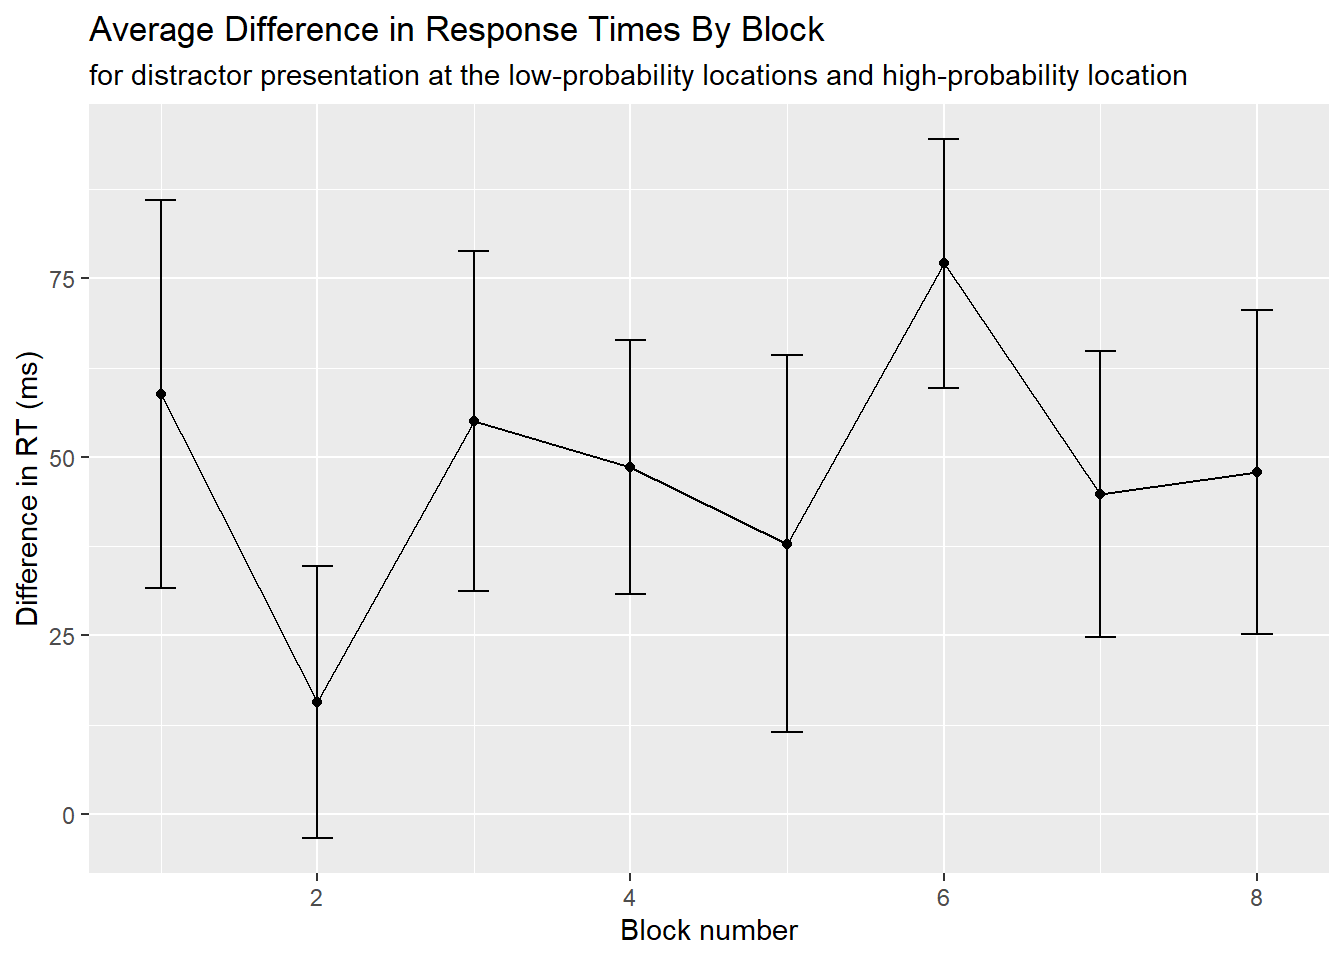
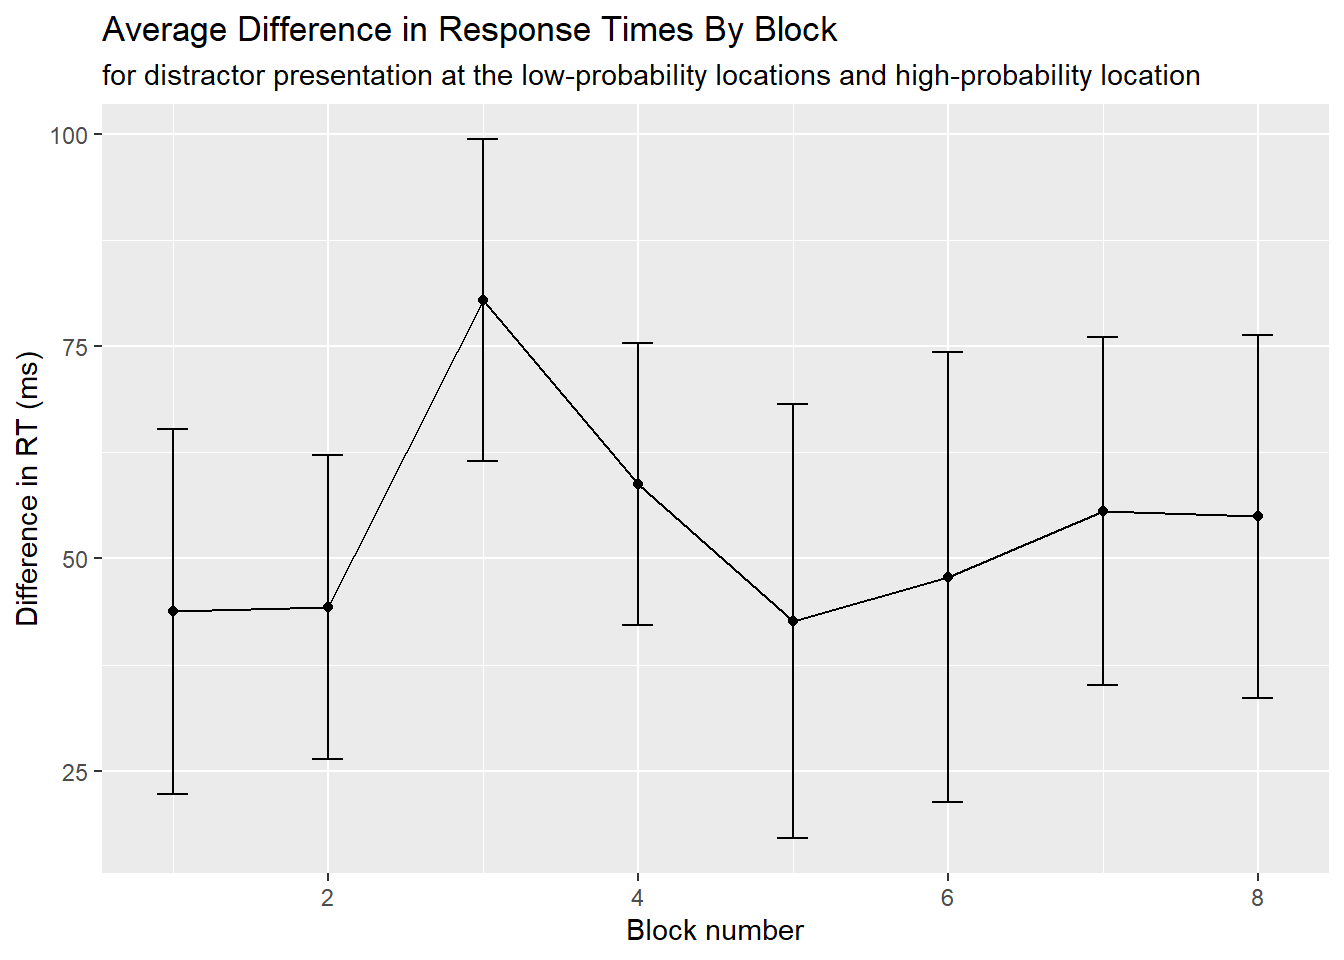
Corrected issues in portfolio 1

diff --git a/docs/p01.html b/docs/p01.html
@@ -315,9 +315,6 @@ regularity introduced.</p>
 <pre class="r"><code>pilot &lt;- read_csv(&quot;p01/p01/data/pilot_final.csv&quot;, show_col_types = FALSE)</code></pre>
 <pre><code>## New names:
 ## • `` -&gt; `...1`</code></pre>
-<div id="distractor-location-effects-on-response-times"
-class="section level3">
-<h3>Distractor Location Effects on Response Times</h3>
 <p>Changed the value of column relative_hp_dist and changed RT column to
 milliseconds. Tried mutate and transform functions to no avail.</p>
 <pre class="r"><code>pilot$relative_hp_dist[pilot$relative_hp_dist == 10] &lt;- &quot;no_dist&quot;
@@ -327,12 +324,40 @@ pilot$relative_hp_dist[pilot$relative_hp_dist == 2] &lt;- &quot;dist_2&quot;
 pilot$relative_hp_dist[pilot$relative_hp_dist == 3] &lt;- &quot;dist_3&quot;
 
 pilot$RT &lt;- pilot$RT *1000</code></pre>
+<pre class="r"><code>block_num &lt;- rep(c(1,2,3,4,5,6,7,8), each=60, times=21)
+pilot &lt;- cbind(pilot, block_num)</code></pre>
+<div id="trim-the-data" class="section level3">
+<h3>Trim the Data</h3>
+<p>Define trimming criteria according to Van Selst and Jolicoeur
+1994</p>
+<pre class="r"><code>xsize &lt;- c(4, 5, 6, 7, 8, 9, 10, 11, 12, 13, 14, 15, 20, 
+             25, 30, 35, 50, 100)
+stds &lt;- c(1.458, 1.68, 1.841, 1.961, 2.05, 2.12, 2.173, 
+            2.22, 2.246, 2.274, 2.31, 2.326, 2.391, 2.41, 2.4305, 
+            2.45, 2.48, 2.5)</code></pre>
+<p>Trim the data and compute the percent trimmed</p>
+<pre class="r"><code>trimmed &lt;- pilot[pilot$acc==100, ] %&gt;% group_by(ID, relative_hp_dist) %&gt;%
+           mutate(sdc = ifelse(length(RT)&gt;=100,2.5,approx(xsize,stds,xout=length(RT))$y), avg = mean(RT), stdev = sd(RT)) %&gt;%
+           filter(RT &lt;= sdc*stdev+avg &amp; RT &gt;=avg-(sdc*stdev) &amp; RT &gt;=.200) %&gt;%
+           select(ID, relative_hp_dist, RT, block_num) %&gt;%
+           as.data.frame()
+
+
+statPrep &lt;- trimmed %&gt;% group_by(ID, relative_hp_dist) %&gt;% summarise(measurement=mean(RT)) %&gt;% as.data.frame()</code></pre>
+<pre><code>## `summarise()` has grouped output by &#39;ID&#39;. You can override using the `.groups`
+## argument.</code></pre>
+<pre class="r"><code>100-(nrow(trimmed)/nrow(pilot[pilot$acc==100, ]))*100</code></pre>
+<pre><code>## [1] 2.509732</code></pre>
+<p>2.51% of trials were trimmed.</p>
+</div>
+<div id="distractor-location-effects-on-response-times"
+class="section level3">
+<h3>Distractor Location Effects on Response Times</h3>
 <p>Create new data frame with the mean response times grouped by
 distractor location relative to the high-probability location and add
 columns for standard error.</p>
-<pre class="r"><code>dist_means &lt;- pilot %&gt;%
-  group_by(relative_hp_dist) %&gt;%
-  filter(acc==100) %&gt;%
+<pre class="r"><code>sum_stats &lt;- trimmed%&gt;%
+  group_by(relative_hp_dist)%&gt;%
   summarize(mean_rts=mean(RT),
             sd_rt=sd(RT),
             n_rt=21,
@@ -340,33 +365,32 @@ columns for standard error.</p>
             upper_limit=mean_rts+se,
             lower_limit=mean_rts-se
   )
-dist_means</code></pre>
+sum_stats</code></pre>
 <pre><code>## # A tibble: 5 × 7
 ##   relative_hp_dist mean_rts sd_rt  n_rt    se upper_limit lower_limit
 ##   &lt;chr&gt;               &lt;dbl&gt; &lt;dbl&gt; &lt;dbl&gt; &lt;dbl&gt;       &lt;dbl&gt;       &lt;dbl&gt;
-## 1 dist_0               881.  292.    21  63.8        944.        817.
-## 2 dist_1               932.  286.    21  62.5        995.        870.
-## 3 dist_2               940.  277.    21  60.5       1001.        880.
-## 4 dist_3               920.  259.    21  56.5        977.        864.
-## 5 no_dist              800.  245.    21  53.4        853.        746.</code></pre>
+## 1 dist_0               860.  266.    21  58.1        918.        802.
+## 2 dist_1               923.  277.    21  60.4        983.        862.
+## 3 dist_2               926.  262.    21  57.1        984.        869.
+## 4 dist_3               906.  239.    21  52.1        958.        854.
+## 5 no_dist              781.  215.    21  46.9        828.        734.</code></pre>
 <p>This figure displays the mean response times depending on the
 location of the distractor relative to the high probability location. I
 chose those particular colors based on Wake Forest’s color scheme.</p>
-<pre class="r"><code>ggplot(data = dist_means, aes(x = relative_hp_dist, y = mean_rts)) +
+<pre class="r"><code>ggplot(data = sum_stats, aes(x = relative_hp_dist, y = mean_rts)) +
   geom_bar(stat = &quot;identity&quot;, fill=&quot;#9E7E38&quot;, color=&#39;#000000&#39;) +
   geom_errorbar(aes(ymin=lower_limit, ymax=upper_limit), width=0.2)+
   coord_cartesian(ylim = c(700,1050))+
   theme_classic()+
   labs(x = &quot;Distractor Location&quot;, y = &quot;Response Time (ms)&quot;)+
   labs(title = &quot;Distractor Location Effect on RT&quot;)+
-  labs(caption = &quot;An ANOVA test shows a difference in RT depending on distractor location, F(4,80)=32.621, p&lt;.001.&quot;)</code></pre>
+  labs(caption = &quot;An ANOVA test shows a difference in RT depending on distractor location, F(4,80)=33.3, p&lt;.001.&quot;)</code></pre>
 <p><img src="p01_files/figure-html/-%20graph%201%20-%20distractor%20location%20effect%20on%20rt-1.png" width="672" /></p>
 <p>Create a new data frame with the average RT for each relative
 distractor location per participant, so we can do a repeated measures
 ANOVA.</p>
-<pre class="r"><code>space &lt;- pilot %&gt;%
+<pre class="r"><code>space &lt;- trimmed %&gt;%
   group_by(ID, relative_hp_dist) %&gt;%
-  filter(acc==100) %&gt;%
   summarize(rts = mean(RT),
             )</code></pre>
 <pre><code>## `summarise()` has grouped output by &#39;ID&#39;. You can override using the `.groups`
@@ -380,12 +404,12 @@ ANOVA.</p>
 ##  2    11 dist_1           1324.
 ##  3    11 dist_2           1336.
 ##  4    11 dist_3           1230.
-##  5    11 no_dist          1098.
-##  6    12 dist_0            816.
-##  7    12 dist_1            879.
-##  8    12 dist_2            865.
+##  5    11 no_dist          1081.
+##  6    12 dist_0            799.
+##  7    12 dist_1            841.
+##  8    12 dist_2            849.
 ##  9    12 dist_3            882.
-## 10    12 no_dist           750.
+## 10    12 no_dist           732.
 ## # … with 95 more rows</code></pre>
 <p>Need to reformat the above df to have a column for each
 relative_hp_dist/ID.</p>
@@ -395,14 +419,17 @@ space_anova &lt;- dcast(space_anova,ID~relative_hp_dist,value.var=&#39;rts&#39;)
 space %&gt;%
   group_by(relative_hp_dist) %&gt;%
   identify_outliers(rts)</code></pre>
-<pre><code>## # A tibble: 5 × 5
+<pre><code>## # A tibble: 8 × 5
 ##   relative_hp_dist    ID   rts is.outlier is.extreme
 ##   &lt;chr&gt;            &lt;dbl&gt; &lt;dbl&gt; &lt;lgl&gt;      &lt;lgl&gt;     
 ## 1 dist_0              11 1277. TRUE       FALSE     
 ## 2 dist_1              11 1324. TRUE       FALSE     
-## 3 no_dist             11 1098. TRUE       TRUE      
-## 4 no_dist             20  998. TRUE       FALSE     
-## 5 no_dist             28  972. TRUE       FALSE</code></pre>
+## 3 dist_1              28 1258. TRUE       FALSE     
+## 4 dist_3              11 1230. TRUE       FALSE     
+## 5 no_dist             11 1081. TRUE       TRUE      
+## 6 no_dist             20  986. TRUE       FALSE     
+## 7 no_dist             22  904. TRUE       FALSE     
+## 8 no_dist             28  953. TRUE       FALSE</code></pre>
 <pre class="r"><code>#testing the normality assumption -- data is not normally distributed because some conditions have a p-value less than .05
 space %&gt;%
   group_by(relative_hp_dist) %&gt;%
@@ -410,11 +437,11 @@ space %&gt;%
 <pre><code>## # A tibble: 5 × 4
 ##   relative_hp_dist variable statistic      p
 ##   &lt;chr&gt;            &lt;chr&gt;        &lt;dbl&gt;  &lt;dbl&gt;
-## 1 dist_0           rts          0.917 0.0762
-## 2 dist_1           rts          0.887 0.0200
-## 3 dist_2           rts          0.902 0.0380
-## 4 dist_3           rts          0.952 0.377 
-## 5 no_dist          rts          0.898 0.0320</code></pre>
+## 1 dist_0           rts          0.901 0.0362
+## 2 dist_1           rts          0.876 0.0125
+## 3 dist_2           rts          0.910 0.0557
+## 4 dist_3           rts          0.939 0.205 
+## 5 no_dist          rts          0.887 0.0194</code></pre>
 <p>Assumption of sphericity is automatically checked during the ANOVA
 test. Next, we’ll do the ANOVA test. The ANOVA shows a significant
 difference among distractor locations, F(4,80)=32.621, p&lt;.001. The
@@ -424,20 +451,20 @@ two different methods used to run the ANOVA gave me the same results
 get_anova_table(res.aov)</code></pre>
 <pre><code>## ANOVA Table (type III tests)
 ## 
-##             Effect DFn DFd      F        p p&lt;.05   ges
-## 1 relative_hp_dist   4  80 32.621 4.04e-16     * 0.113</code></pre>
+##             Effect DFn DFd    F        p p&lt;.05  ges
+## 1 relative_hp_dist   4  80 33.3 2.44e-16     * 0.12</code></pre>
 <pre class="r"><code>model = aov(rts~factor(relative_hp_dist)+
                 Error(factor(ID)), data=space)
 summary(model)</code></pre>
 <pre><code>## 
 ## Error: factor(ID)
 ##           Df  Sum Sq Mean Sq F value Pr(&gt;F)
-## Residuals 20 2011777  100589               
+## Residuals 20 2064016  103201               
 ## 
 ## Error: Within
 ##                          Df Sum Sq Mean Sq F value   Pr(&gt;F)    
-## factor(relative_hp_dist)  4 278116   69529   32.62 4.04e-16 ***
-## Residuals                80 170515    2131                     
+## factor(relative_hp_dist)  4 306342   76586    33.3 2.44e-16 ***
+## Residuals                80 183990    2300                     
 ## ---
 ## Signif. codes:  0 &#39;***&#39; 0.001 &#39;**&#39; 0.01 &#39;*&#39; 0.05 &#39;.&#39; 0.1 &#39; &#39; 1</code></pre>
 <p>Test whether the high-prob location and the average across low-prob
@@ -445,7 +472,7 @@ locations were significantly different. Using a paired samples t-test, I
 found that the response times for when the distractor was presented in
 the high-probability location compared to the average response time
 across the low-probability locations was significantly different
-(t(20)=4.24, p&lt;.001).</p>
+(t(20)=4.95, p&lt;.001).</p>
 <pre class="r"><code>space_anova &lt;- space_anova %&gt;%
   mutate(low_prob = (dist_1+dist_2+dist_3)/3)</code></pre>
 <pre class="r"><code>space_anova %&gt;%
@@ -454,13 +481,13 @@ across the low-probability locations was significantly different
 ##  Paired t-test
 ## 
 ## data:  space_anova$low_prob and space_anova$dist_0
-## t = 4.2356, df = 20, p-value = 0.0002028
+## t = 4.9458, df = 20, p-value = 3.893e-05
 ## alternative hypothesis: true mean difference is greater than 0
 ## 95 percent confidence interval:
-##  28.17099      Inf
+##  36.23139      Inf
 ## sample estimates:
 ## mean difference 
-##         47.5214</code></pre>
+##        55.63165</code></pre>
 </div>
 <div id="examine-block-by-block-learning-of-distractor-location"
 class="section level3">
@@ -471,19 +498,35 @@ the distractor is presented in the low probability locations and
 response times when the distractor is presented in the high probability
 location in each block to see roughly how quickly individuals are
 learning the regularity.</p>
-<pre class="r"><code>block_num &lt;- rep(c(1,2,3,4,5,6,7,8), each=60, times=21)
-pilot &lt;- cbind(pilot, block_num)</code></pre>
-<pre class="r"><code>space_block &lt;- pilot %&gt;%
+<pre class="r"><code>space_block &lt;- trimmed %&gt;%
   group_by(ID, block_num, relative_hp_dist) %&gt;%
-  filter(acc==100) %&gt;%
   summarize(rts = mean(RT),
             )</code></pre>
 <pre><code>## `summarise()` has grouped output by &#39;ID&#39;, &#39;block_num&#39;. You can override using
 ## the `.groups` argument.</code></pre>
+<pre class="r"><code>space_block</code></pre>
+<pre><code>## # A tibble: 837 × 4
+## # Groups:   ID, block_num [168]
+##       ID block_num relative_hp_dist   rts
+##    &lt;dbl&gt;     &lt;dbl&gt; &lt;chr&gt;            &lt;dbl&gt;
+##  1    11         1 dist_0           1552.
+##  2    11         1 dist_1           1361.
+##  3    11         1 dist_2           1557.
+##  4    11         1 dist_3           1113.
+##  5    11         1 no_dist          1317.
+##  6    11         2 dist_0           1405.
+##  7    11         2 dist_1           1400.
+##  8    11         2 dist_2           1555.
+##  9    11         2 dist_3           1329.
+## 10    11         2 no_dist          1127.
+## # … with 827 more rows</code></pre>
 <pre class="r"><code>space_block &lt;- setDT(space_block)
 space_block &lt;- dcast(space_block,ID+block_num~relative_hp_dist,value.var=&#39;rts&#39;)</code></pre>
+<p>Below, I added the average rt for the low probability locations and
+the difference between the low probability and high probability
+locations ignoring na values.</p>
 <pre class="r"><code>space_block &lt;- space_block %&gt;%
-  mutate(low_prob = (dist_1+dist_2+dist_3)/3) %&gt;%
+  mutate(low_prob = rowMeans(select(space_block, c(dist_1,dist_2,dist_3)),na.rm=TRUE)) %&gt;%
   mutate(difference = (low_prob-dist_0))</code></pre>
 <pre class="r"><code>ggplot(data = space_block,aes(x=block_num, y=difference, group=ID))+
   geom_line(aes(color=ID))+
@@ -491,7 +534,6 @@ space_block &lt;- dcast(space_block,ID+block_num~relative_hp_dist,value.var=&#39
   labs(title = &quot;Difference in Response Times&quot;, subtitle = &quot;for distractor presentation at the low-probability locations and high-probability location by block&quot;)+
   theme_classic()+
   labs(x = &quot;Block Number&quot;, y = &quot;Difference in RT (ms)&quot;)</code></pre>
-<pre><code>## Warning: Removed 1 rows containing missing values (`geom_point()`).</code></pre>
 <p><img src="p01_files/figure-html/line_plot-1.png" width="672" /></p>
 <p>One participant did not have a value for block 6 due to them not
 completing any trials of a certain type, accurately, during that block.
